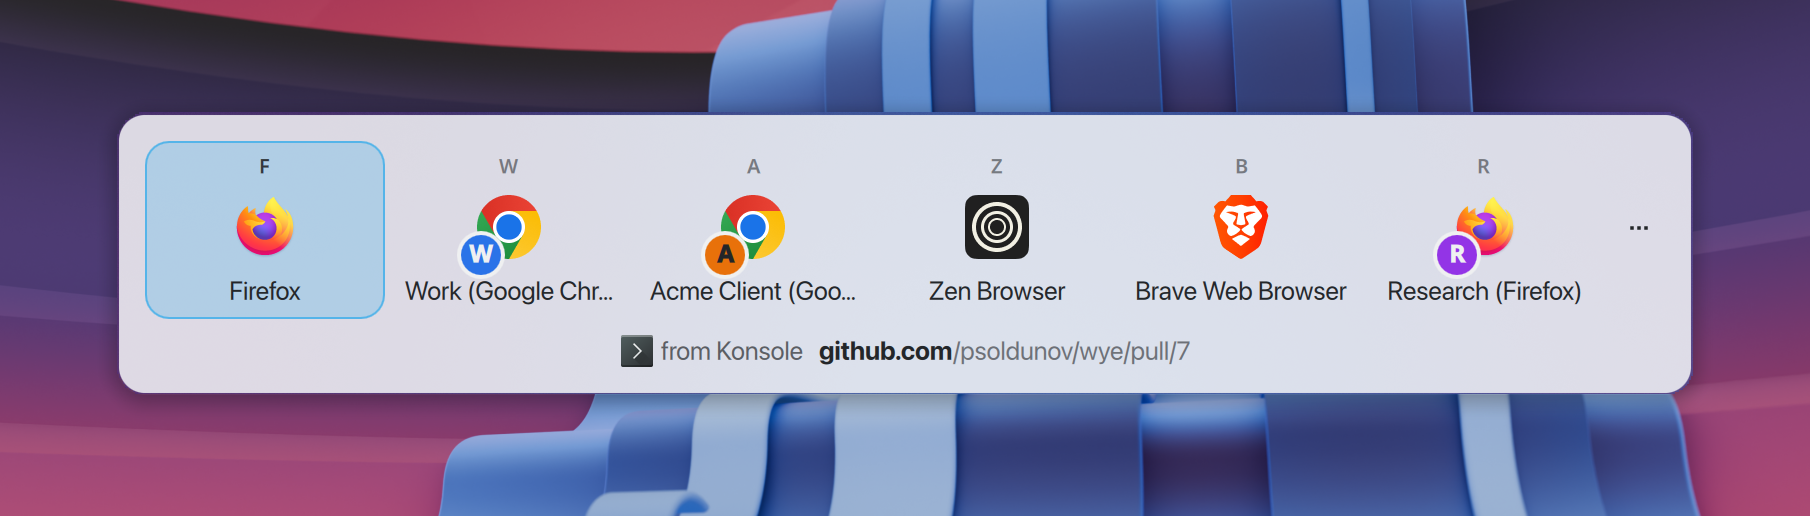
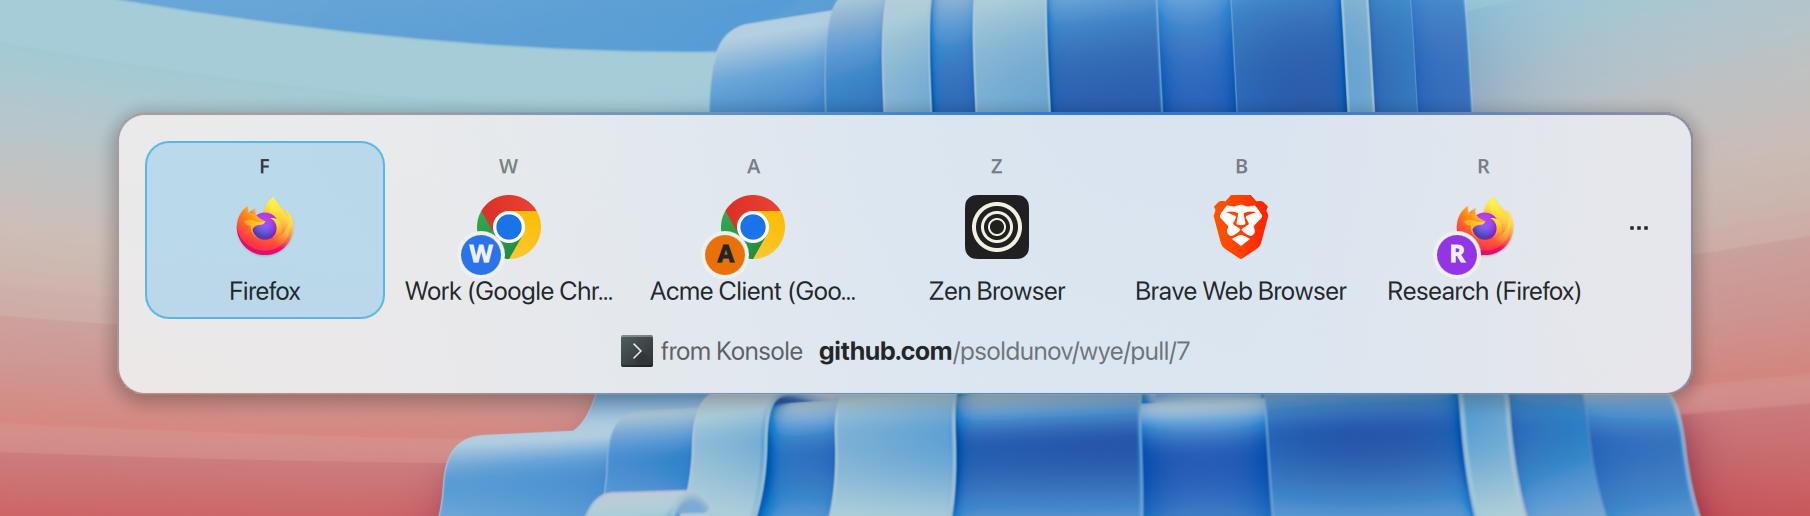
docs: KDE stage uses its own Plasma look; Recent Links screenshot
The stage inherited XDG_CONFIG_DIRS from the host session, including
~/.config/kdedefaults, so Plasma took the host's Plasma style and icon
theme and the panel stayed dark on the light stage. stage.sh now puts
the stage's own kdedefaults first and drops the host's, as startplasma
does.

capture.sh adds tray-recent (More, then Recent Links). Plasma fills a
tray submenu only when Qt first tries to show it and Qt shows no empty
menu, so the submenu opens on the next pointer motion; the script glides
along the row again, as it already did for More. The script editor shot
no longer retypes its link: the first test now runs on the last opened
link. Regenerated the screenshots that changed (light picker and tray
shots, both script editors); the tour shows the new one.

diff --git a/docs/media/kde/stage/README.md b/docs/media/kde/stage/README.md
@@ -55,10 +55,19 @@ device pixels, twice as large. A change to the layout of a surface may need the
 positions in `capture.sh` or `demo.sh` adjusted: the comments next to each say what they
 point at.
 
+Plasma fills a tray submenu (More, Recent Links) only when Qt first tries to show it, and Qt
+shows no empty menu, so the submenu opens on the next pointer motion over its row. A hand on
+a mouse never notices; the stage's pointer stops dead, so `capture.sh` glides over each such
+row twice. A screenshot taken between a pointer move and a click loses that click in Wye's
+tray-menu popup (seen there; other surfaces untested): move the pointer again after
+`shot.py` before clicking.
+
+The stage's look-and-feel defaults (`.config/kdedefaults` in its home directory, written by
+`plasma-apply-lookandfeel`) come first in `XDG_CONFIG_DIRS`, and the host session's are
+left out, as `startplasma` does: the Plasma style and the icon theme follow the stage's
+scheme, not your own.
+
 ## Known gaps
 
 - The Wye UI host runs with the Mesa from the repository's nixpkgs (`tools.nix`): with the
   host's drivers, its Qt finds no EGL and aborts.
-- Plasma's panel stays dark on the light stage.
-- In both tray menus, the third-level submenu (More → Recent Links) does not open on the
-  stage, so no screenshot shows it.

diff --git a/docs/tour.md b/docs/tour.md
@@ -59,6 +59,16 @@ holds History, Recent Links, Test Rules…, Rescan Browsers, Set Up Wye…, Help
   </picture>
 </p>
 
+While history is on, Recent Links lists the last ten links you opened; choosing one opens it
+in the picker again.
+
+<p align="center">
+  <picture>
+    <source media="(prefers-color-scheme: dark)" srcset="media/kde/screenshots/dark/tray-recent.png">
+    <img src="media/kde/screenshots/light/tray-recent.png" width="820" alt="The tray menu with More and its Recent Links submenu open: the last links opened, as host and path">
+  </picture>
+</p>
+
 ## Settings
 
 Settings has seven pages: General, Browsers, Apps, Picker, Rules, Extras and Advanced.
